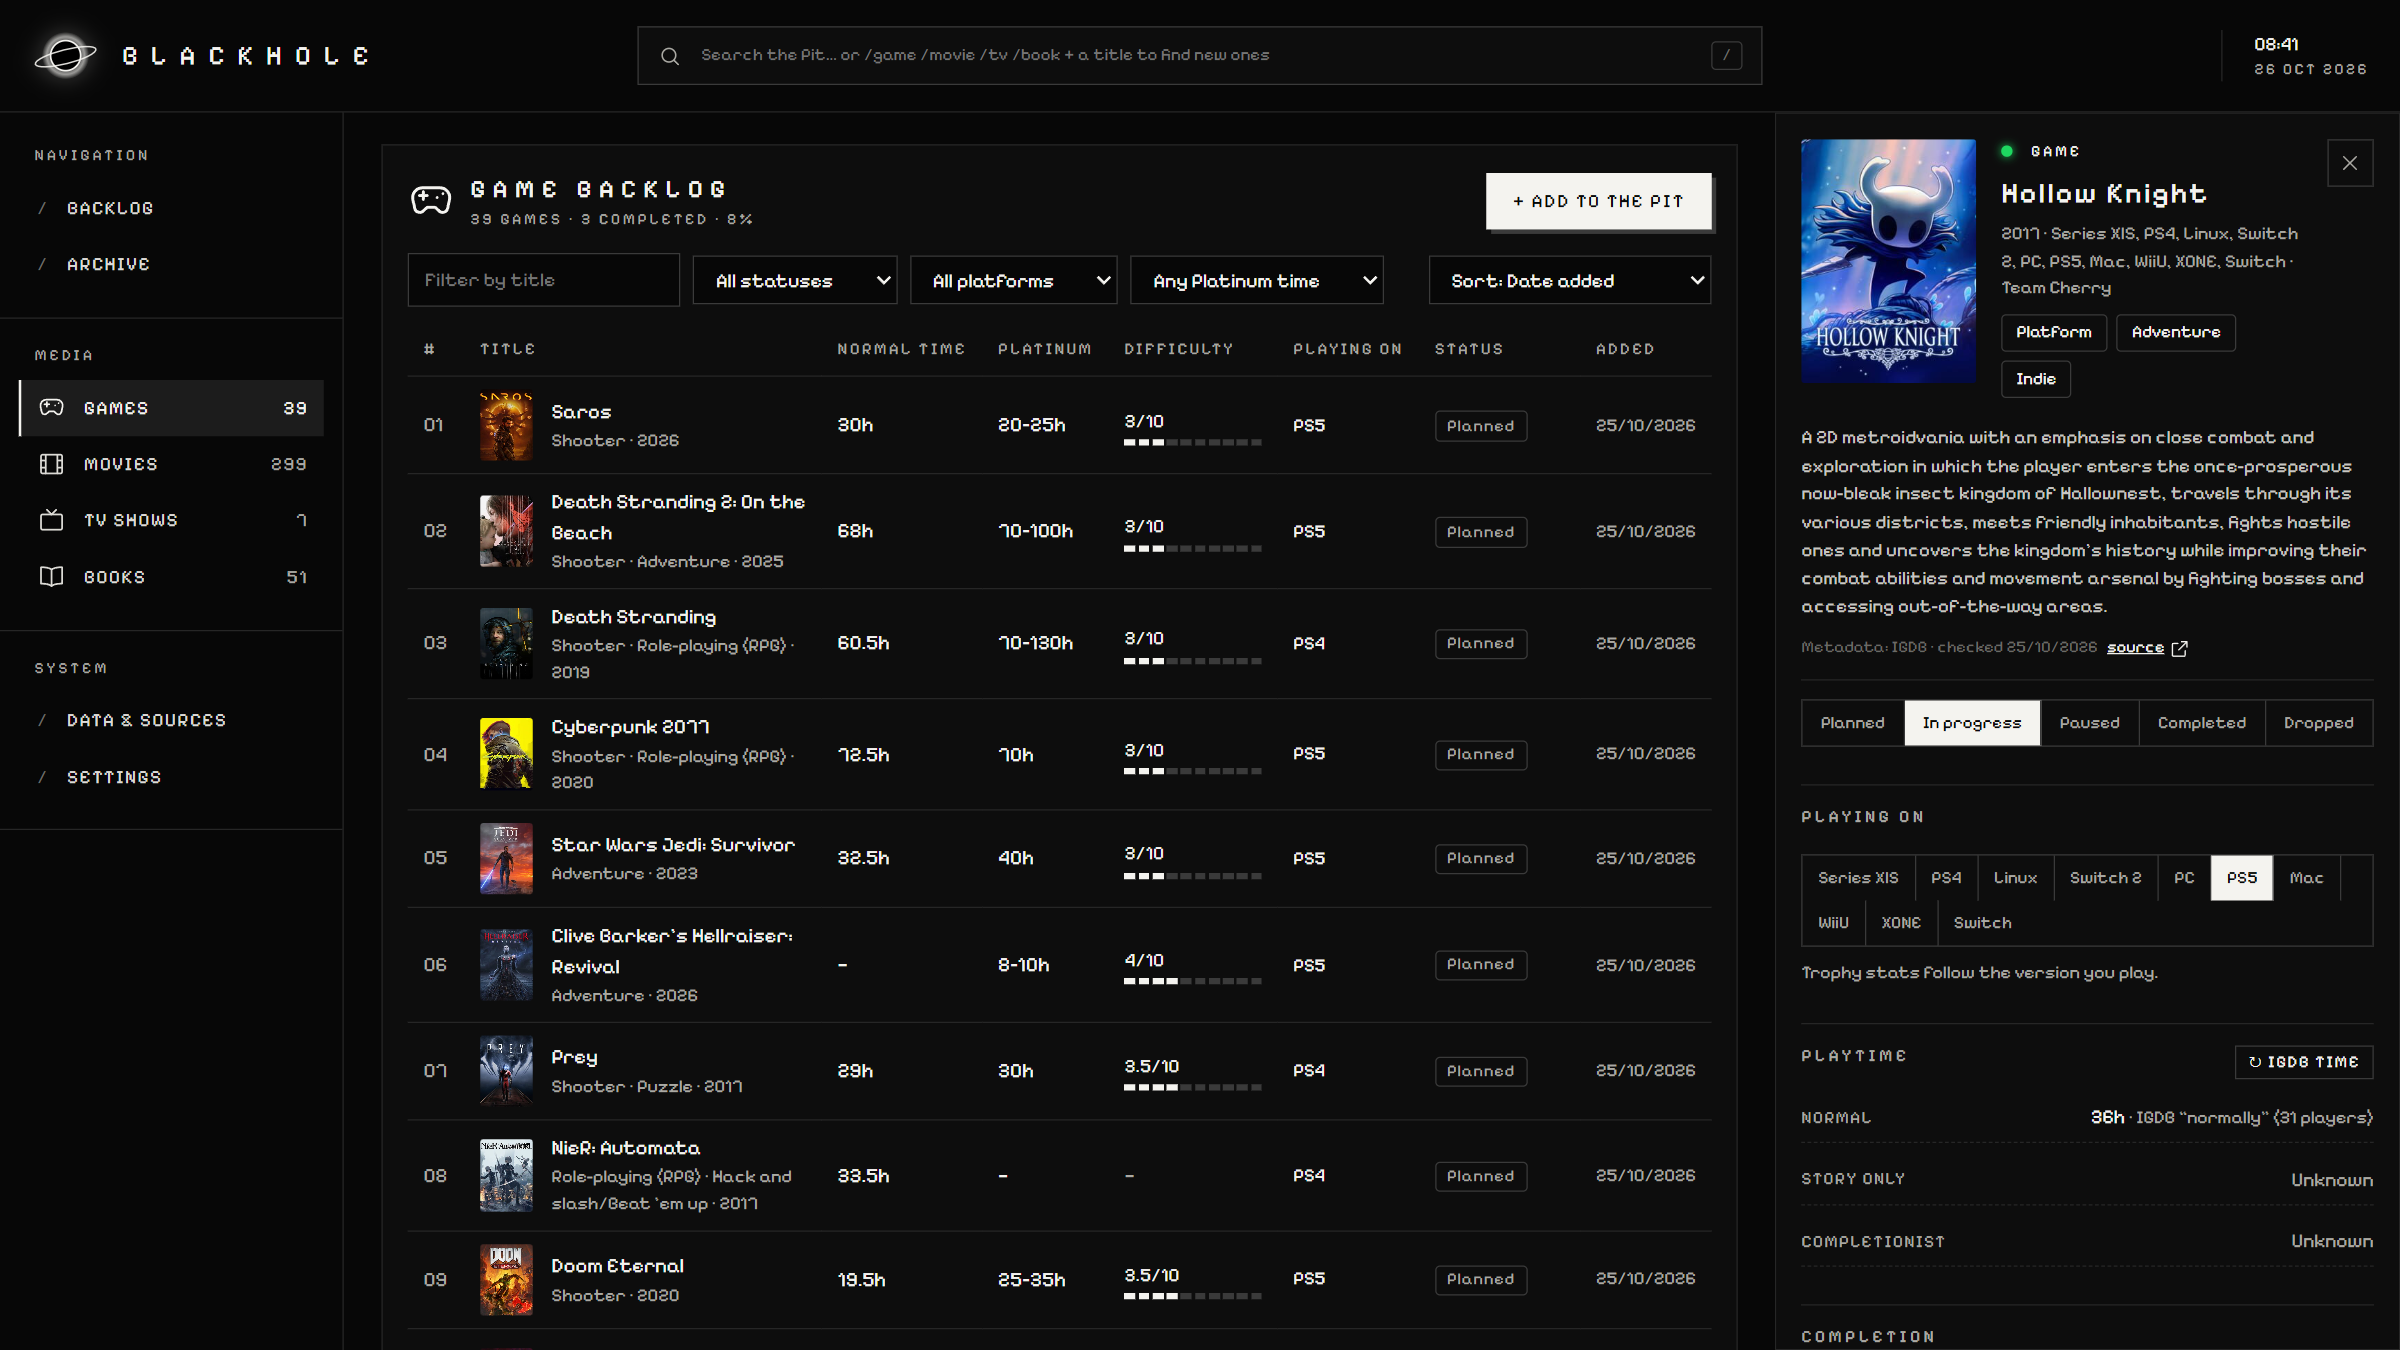
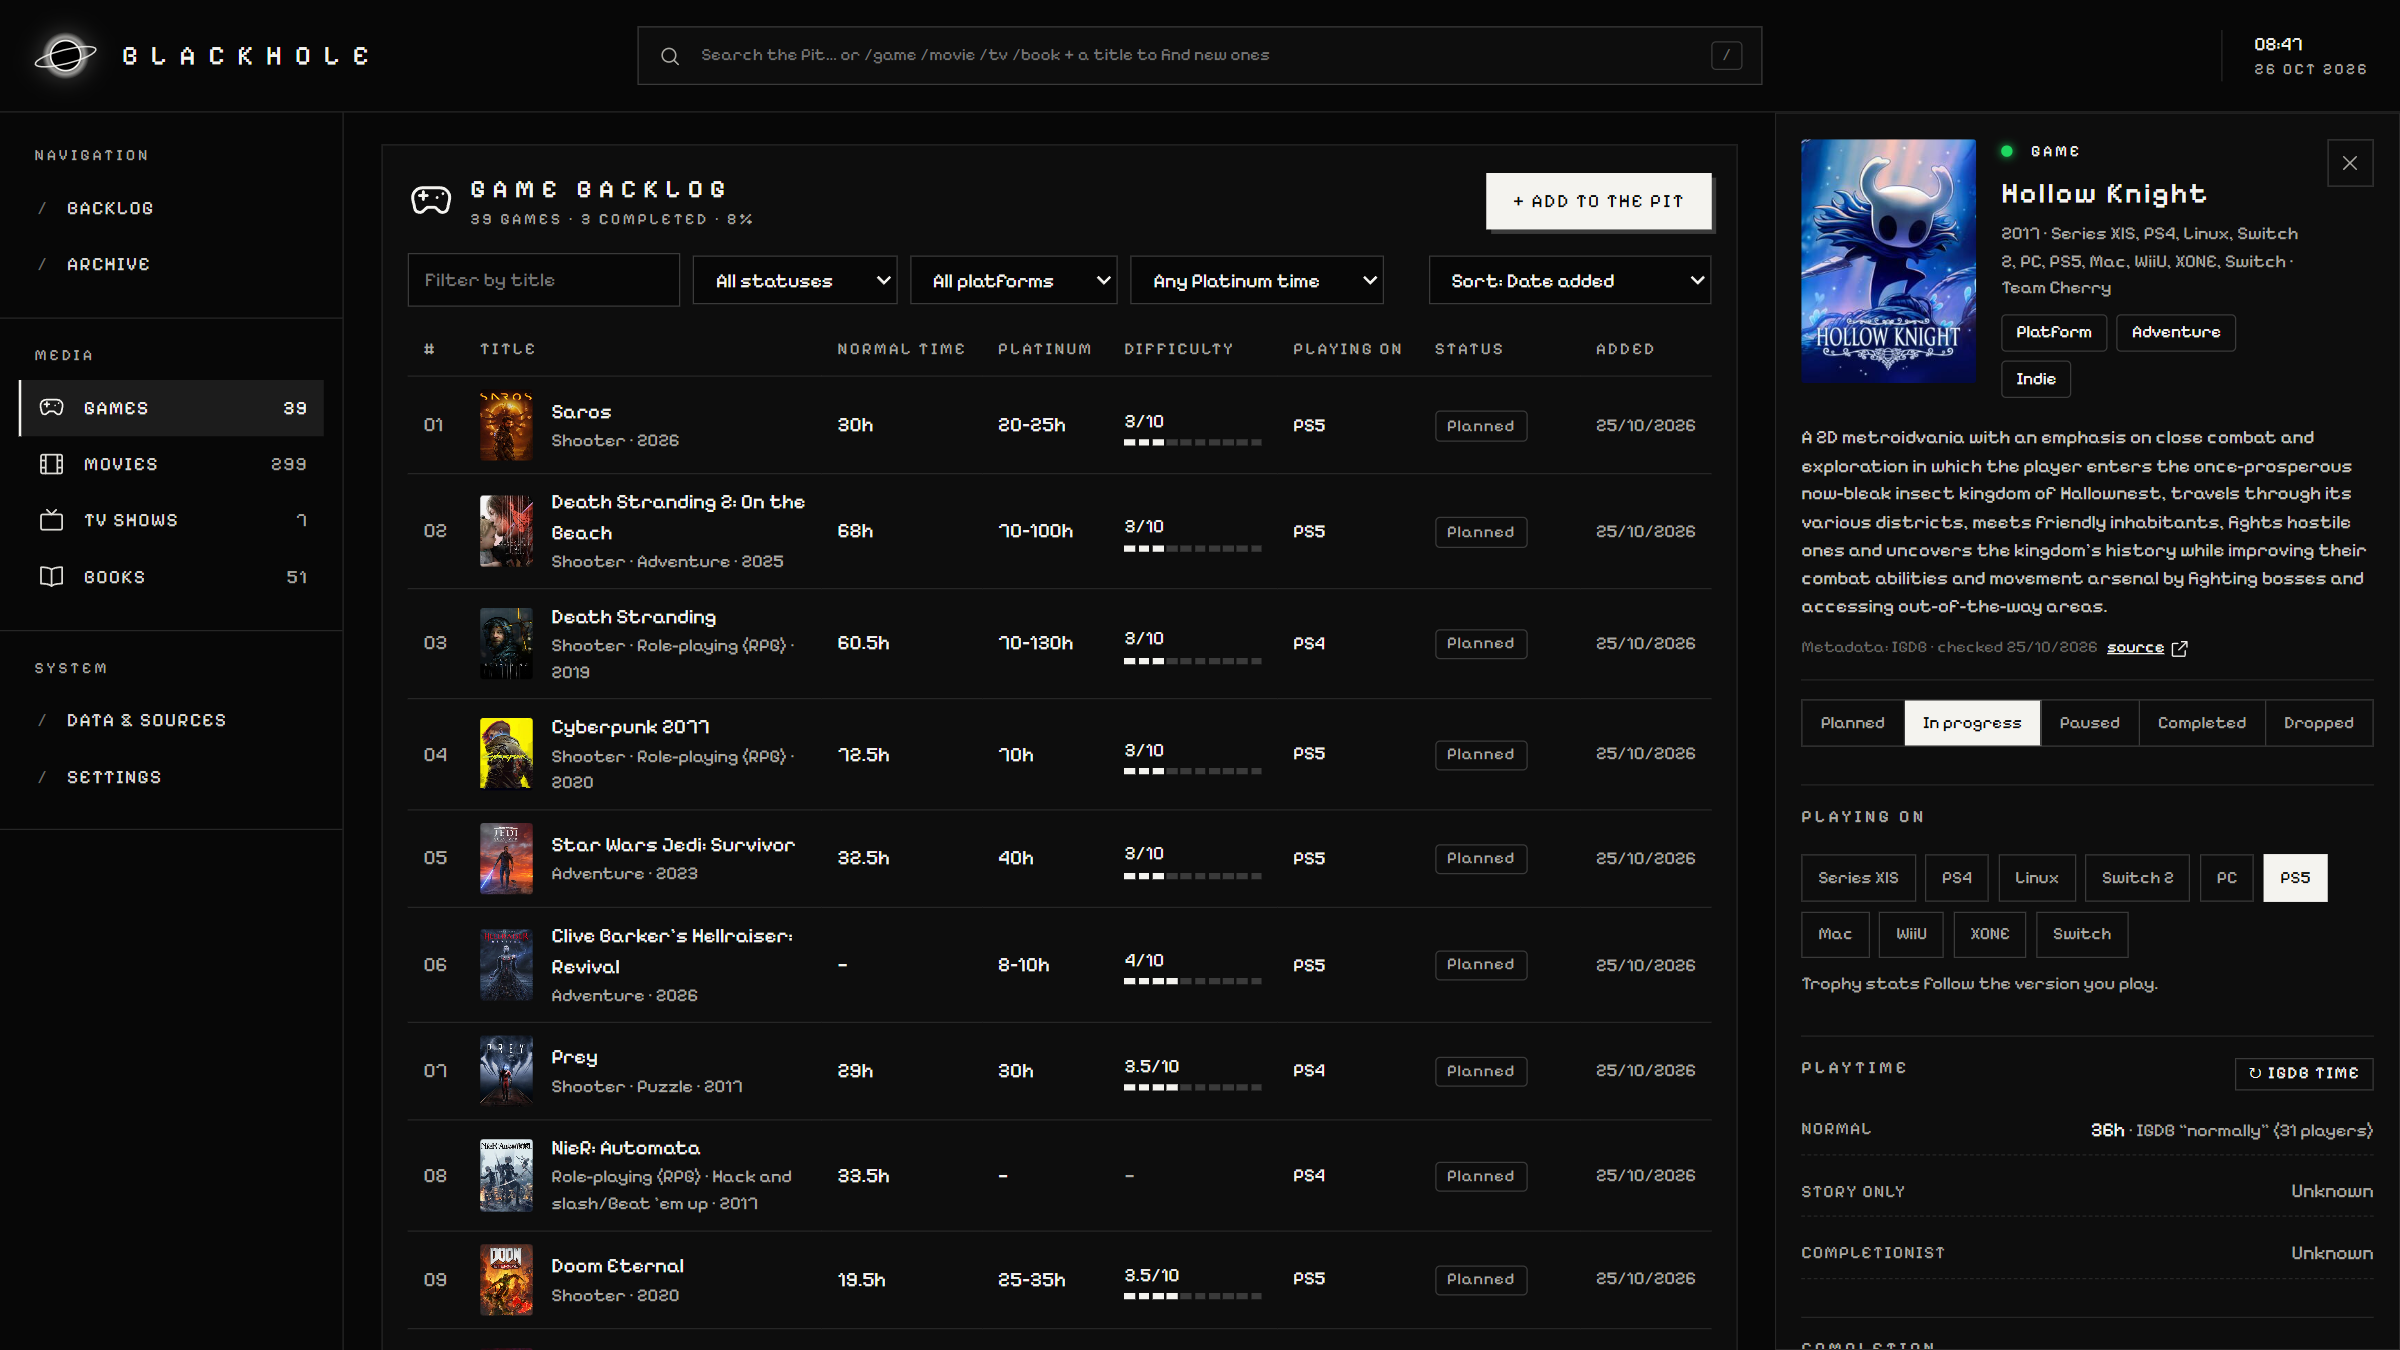
Platform picker: separate buttons in wrapped rows
The Playing on picker was one bordered segmented box; when it wrapped,
the second row left uneven lines and an empty cell. Each platform is now
its own bordered button, wrapping with a 6px gap. Games screenshot
re-shot to match.

diff --git a/apps/web/src/styles/app.css b/apps/web/src/styles/app.css
@@ -465,8 +465,10 @@ details[open] > summary::before { content: '– '; }
   .main.fit .backlog-list button { flex: 1; min-height: 0; padding-block: 2px; }
   .main.fit .backlog-list .cover.sm { width: auto; max-height: 100%; aspect-ratio: 34 / 46; }
 } }
-/* Segmented controls that should hug their buttons instead of stretching across a flex column. */
-.seg.fit { align-self: flex-start; max-width: 100%; }
+/* Separate bordered buttons that wrap into rows with a gap (platform picker): no shared box, so wrapped rows keep even lines. */
+.chip-group { display: flex; flex-wrap: wrap; gap: 6px; }
+.chip-group button { background: none; border: 1px solid var(--line-2); border-radius: var(--radius); padding: 6px 10px; font-size: 11px; color: var(--muted); }
+.chip-group button.on { background: var(--accent); border-color: var(--accent); color: var(--on-accent); }
 
 /* ---------- settings ---------- */
 .settings-list { display: flex; flex-direction: column; margin-top: 14px; }

diff --git a/apps/web/src/features/Inspector.tsx b/apps/web/src/features/Inspector.tsx
@@ -223,7 +223,7 @@ function GamePanel({ d, act }: { d: EntryDetail; act: Act }) {
       <section className="insp-section">
         <h3 className="h-sub">PLAYING ON</h3>
         {media.platforms.length ? (
-          <div className="seg fit" role="radiogroup" aria-label="Platform you will play on">
+          <div className="chip-group" role="radiogroup" aria-label="Platform you will play on">
             {media.platforms.map((p) => (
               <button
                 key={p}

diff --git a/docs/agents/AGENT_claude-opus-blackhole-01_HANDOFF.md b/docs/agents/AGENT_claude-opus-blackhole-01_HANDOFF.md
@@ -137,3 +137,8 @@
 - **Screenshots (owner ask):** added 8 PNGs in `docs/screenshots/` (dashboard, games, movies, TV, TV heatmap, books, Add dialog, Data & Sources) and a Screenshots section near the top of `README.md`. Taken from a copy of the owner's library (backup `blackhole-2026-10-26T04-38-27-866Z.sqlite`) served on :4318 with `DATA_DIR` in a temp folder, via puppeteer-core + Edge headless at 1920×1080, DPR 1.25. The real :4317 library wasn't touched. One TVmaze search ("Severance") was made for the Add dialog shot; nothing was added.
 - **Status buttons (owner screenshot "dropped button asymmetry"):** the inspector's Status segmented control left a gap to the right of "Dropped". It now uses `.seg.fill` (`display: flex`, buttons `flex: 1 1 auto`), so the buttons stretch to the panel's full width. Files: `apps/web/src/features/Inspector.tsx`, `apps/web/src/styles/app.css`.
 - Checks: lint, format check, typecheck, 79/79 tests. UI rebuilt; restart the :4317 server (or relaunch) to pick it up.
+
+## Update — 2026-10-26: platform picker as separate buttons
+
+- **Owner screenshot "platform buttons":** the inspector's Playing on picker was one bordered `.seg` box that wrapped onto a second row, leaving uneven lines and an empty cell. Owner asked for separate buttons in rows with a gap and no box around them. It now uses `.chip-group` (flex-wrap, 6px gap, each button has its own border; the selected one is filled). The `.seg.fit` rule it replaced had no other users and is gone. Files: `apps/web/src/features/Inspector.tsx`, `apps/web/src/styles/app.css`. `docs/screenshots/02-games.png` re-shot to show it.
+- Checks: lint, format check, typecheck, tests; checked visually on the :4318 copy at 1920×1080.
